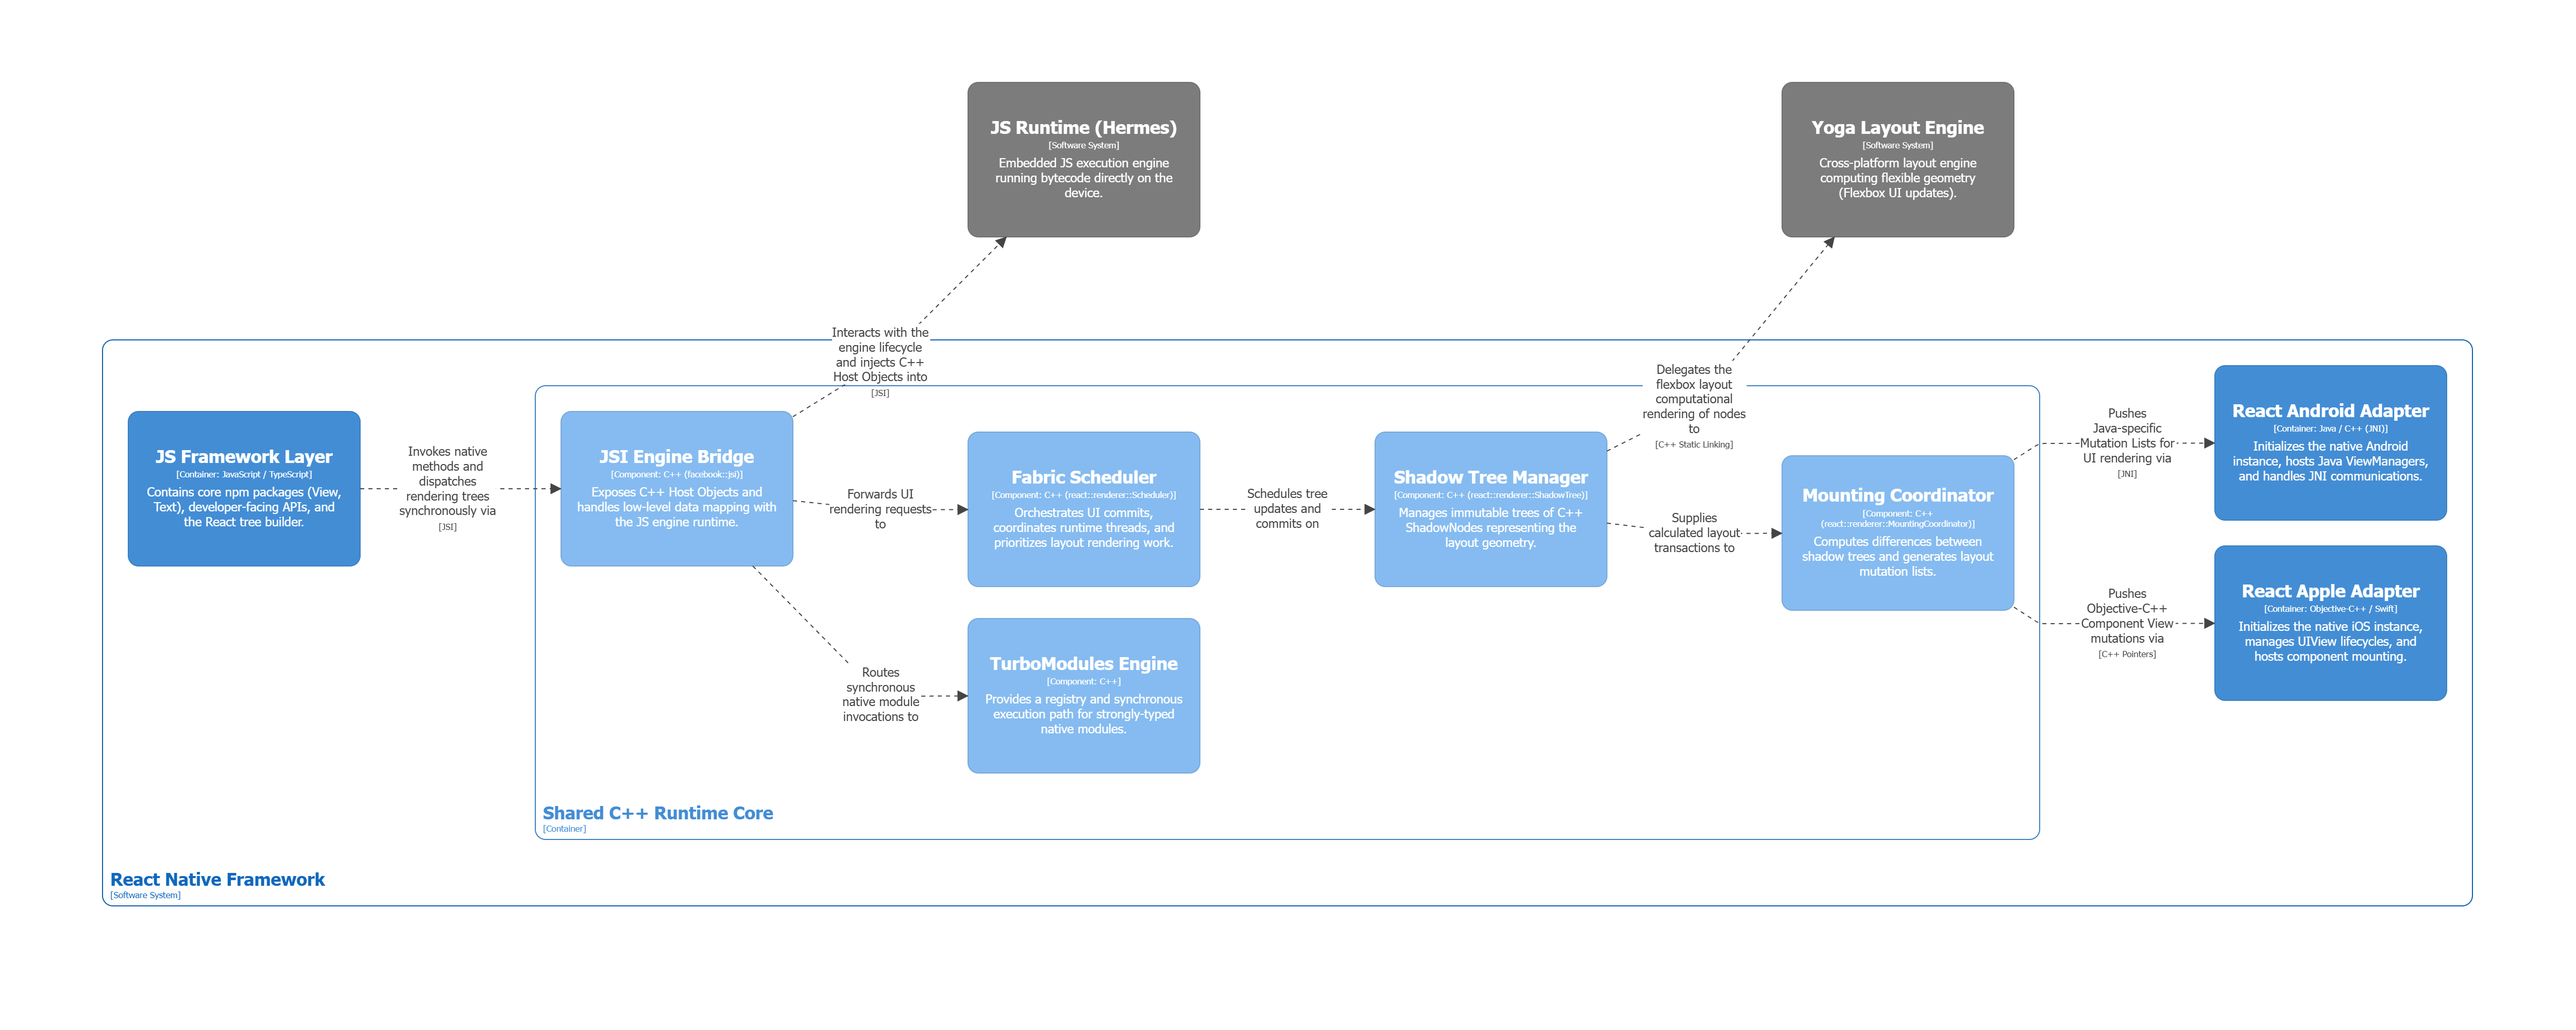
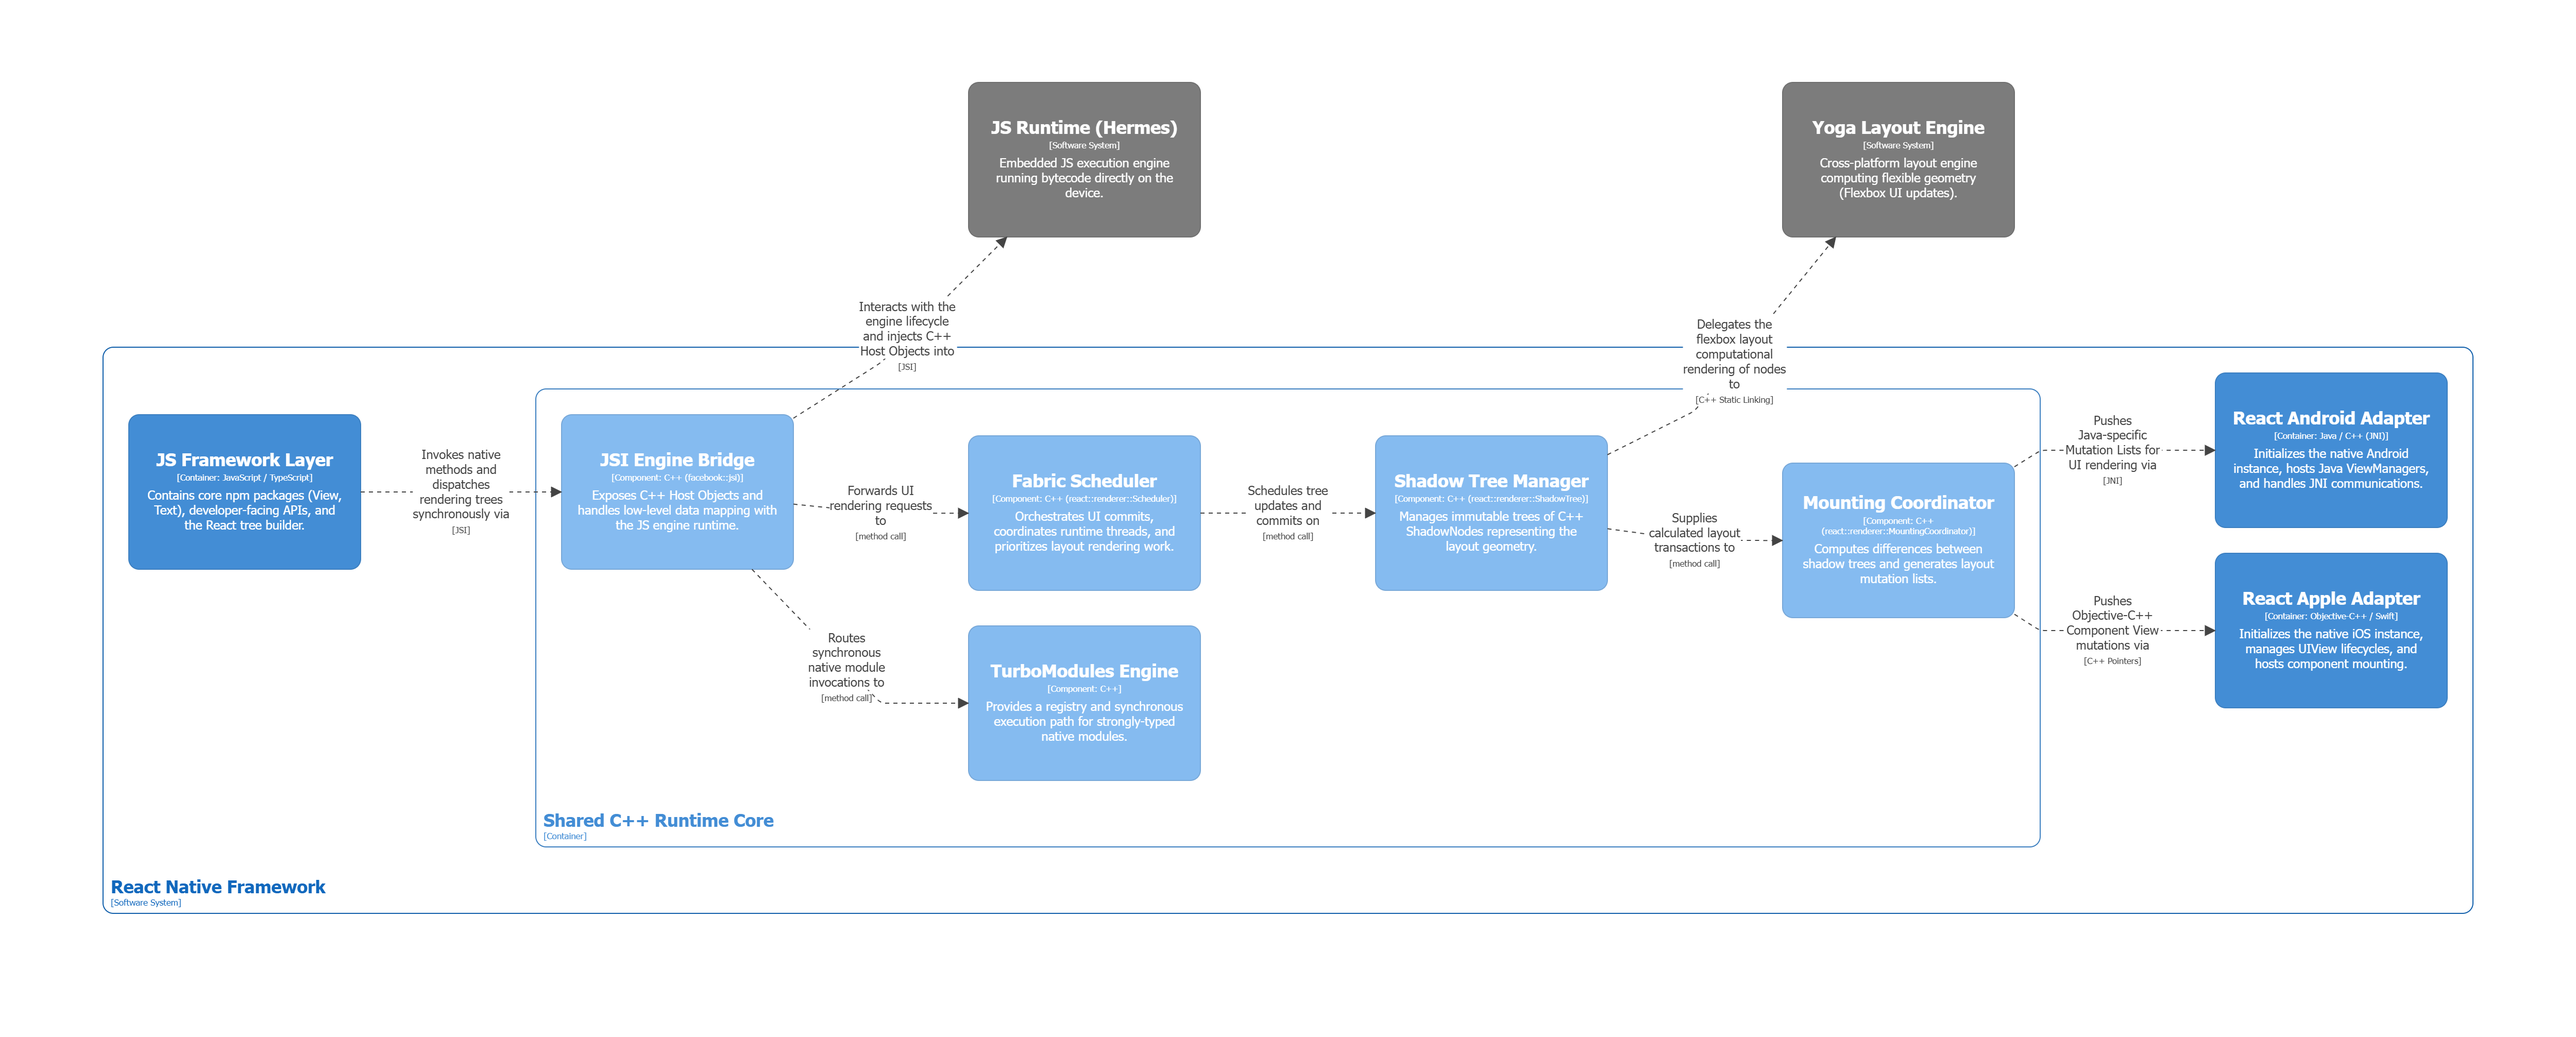
fix: refactored diagrams following feedback guideliness

diff --git a/journals/Oppezzo_Raul_s361308.md b/journals/Oppezzo_Raul_s361308.md
@@ -9,6 +9,7 @@
 | 2026-05-23 | Setup of Structurizr Local workspace, Docker Compose file, and architecture report structure | 1.5 | Architecture: Structurizr Integration |
 | 2026-05-28 | Revision of React Native Container Diagram (L2) and System Context Diagram (L1) | 1.5 | Architecture |
 | 2026-05-29 | Definition of Component Diagram (L3) scope and content | 2.5 | Architecture: Component Level |
+| 2026-06-05 | Diagrams refactoring | 0.5 | Architecture |
 
 ## Detailed Contributions
 ### 2026-04-20 [Overview: Technical Background]
@@ -28,3 +29,6 @@
 
 ### 2026-05-29 [Architecture: Component Level]
 **Specific Contribution:** I attepted to model the C++ Core components. I mainly focused on the new architecture, I have identified the JSI Layer, the Fabric (in charge of orchestrating UI commits, coordinates runtime threads, and prioritizes layout rendering work), and the Mounting Cordinator (in charge of computing differences between shadow trees and generates layout mutation lists).
+
+### 2026-06-05 [Architecture]
+**Specific Contribution**: Refactored L1, L2, L3 diagrams, following feedback guidelines.
